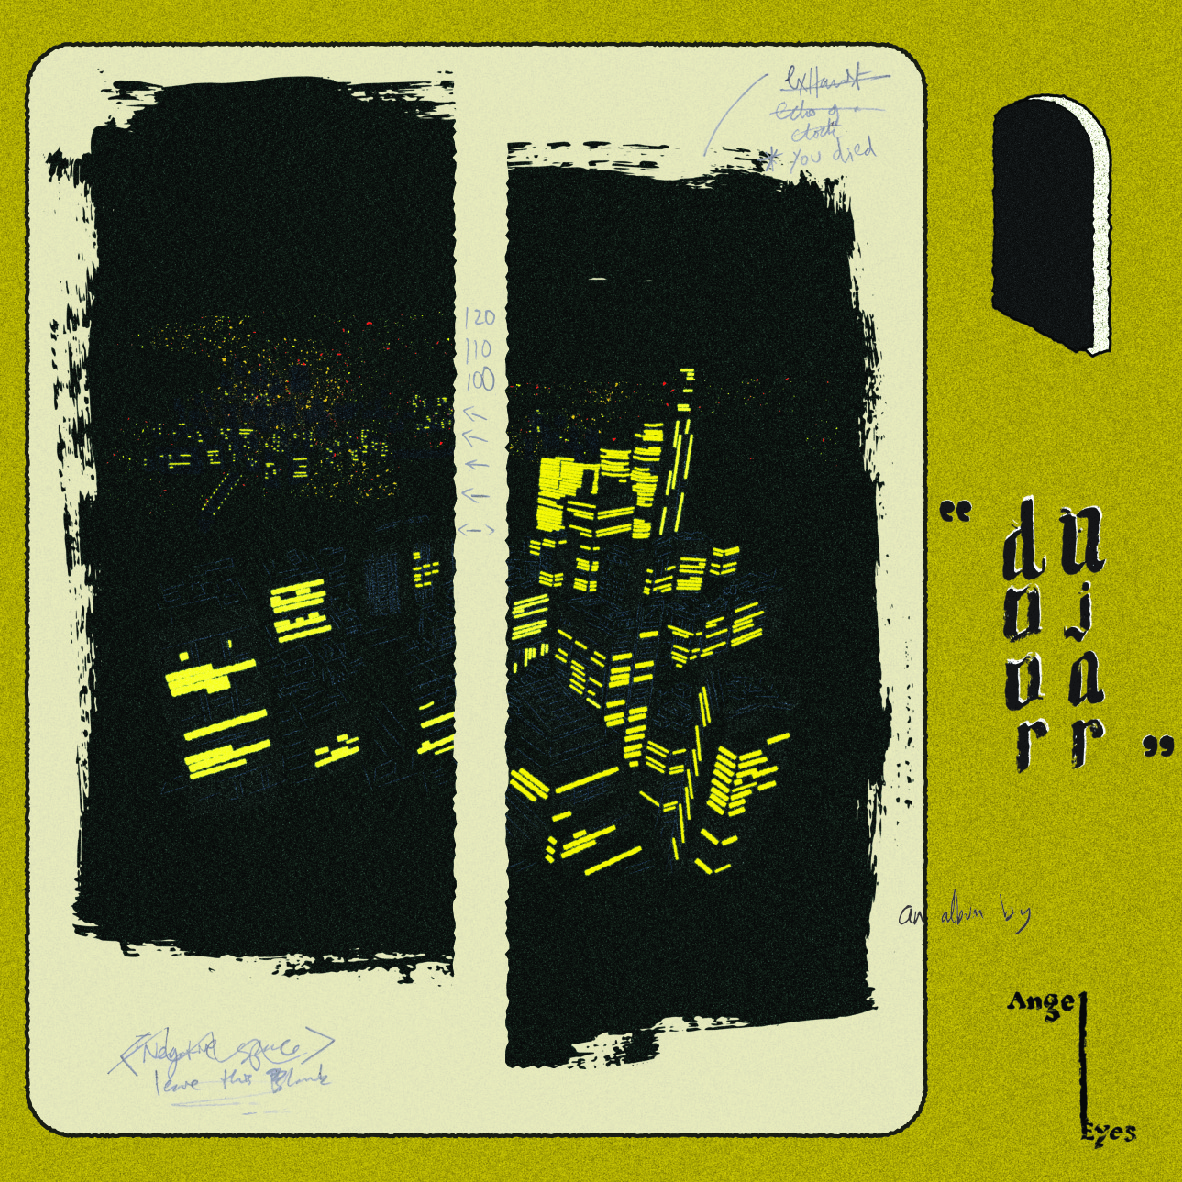
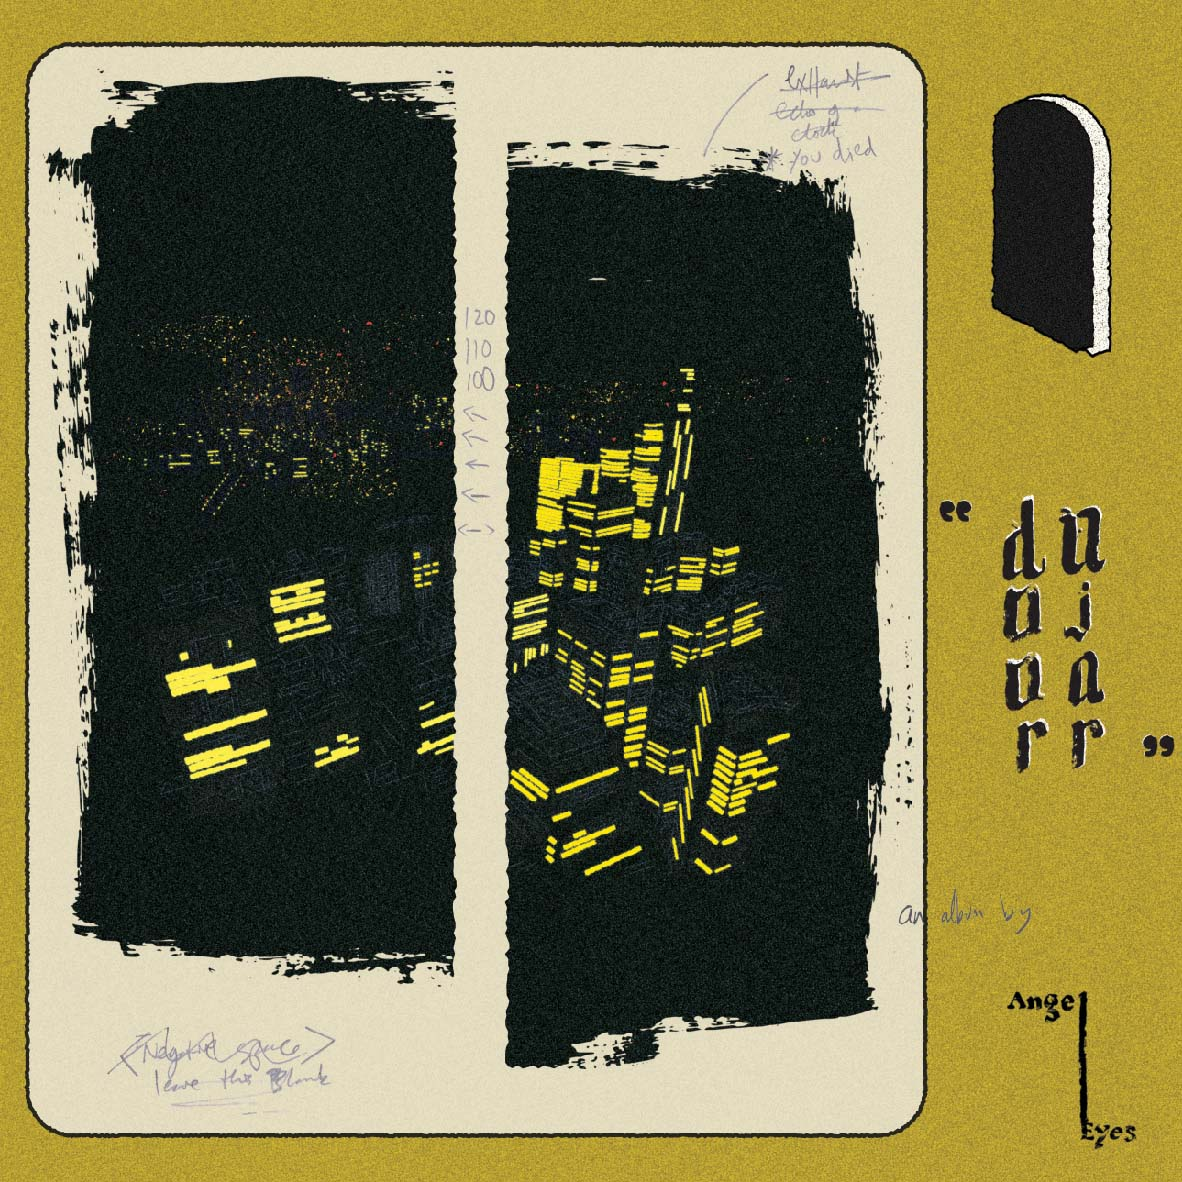
lazy loading and webp

diff --git a/pages/Gallery_Page/Gallery2.html b/pages/Gallery_Page/Gallery2.html
@@ -18,12 +18,12 @@
    </div>
   <div class="topWrap">
    <div class="topbox" id="topBox">
-    <img class="gallimgvert" src="galleryimg/gallerypagebannerVERT.png" id= "gallbann" alt="Paul Cumming gallery banner vertical">
-    <img class="gallimg" src="galleryimg/gallerypagebanner.png" id= "gallbann" alt="gallery banner">
-    <img src="galleryimg/mickeycircle.png" class="circle" id="Mickcircle" data-speed="2" alt="Mickey circle">
-    <img src="galleryimg/comments.png" class="comments" id="comments" data-speed="2" alt="comment box">
-    <img src="galleryimg/negspace.png" class="negSpace" id="negSpace" data-speed="2" alt="negspace">
-    <img src="galleryimg/toomuch.png" class="tooMuch" id="tooMuch" data-speed="2" alt="tooMuch">
+    <img class="gallimgvert" src="galleryimg/gallerypagebannerVERT.webp" id= "gallbann" alt="Paul Cumming gallery banner vertical">
+    <img class="gallimg" src="galleryimg/gallerypagebanner.webp" id= "gallbann" alt="gallery banner">
+    <img src="galleryimg/mickeycircle.webp" class="circle" id="Mickcircle" data-speed="2" alt="Mickey circle">
+    <img src="galleryimg/comments.webp" class="comments" id="comments" data-speed="2" alt="comment box">
+    <img src="galleryimg/negspace.webp" class="negSpace" id="negSpace" data-speed="2" alt="negspace">
+    <img src="galleryimg/toomuch.webp" class="tooMuch" id="tooMuch" data-speed="2" alt="tooMuch">
    </div>
   </div>
   <div id="skullOne" class="skullOne">
@@ -38,61 +38,61 @@
   <div class="wrapper">
   <div class="container" id="container">
     <div class="gallImg" alt="Paul Cumming gallery picture1">
-     <img src="galleryimg/gallerycontent/gallery1.jpg">
+     <img src="galleryimg/gallerycontent/gallery1.webp">
     </div>
     <div class="gallImg" alt="Paul Cumming gallery picture2">
-      <img src="galleryimg/gallerycontent/gallery2.jpg">
+      <img src="galleryimg/gallerycontent/gallery2.webp">
      </div>
      <div class="gallImg" alt="Paul Cumming gallery picture3">
-      <img src="galleryimg/gallerycontent/Gallery3.jpeg">
+      <img loading="lazy" src="galleryimg/gallerycontent/Gallery3.webp">
      </div>
      <div class="gallImg" alt="Paul Cumming gallery picture4">
-      <img src="galleryimg/gallerycontent/Gallery6.jpg">
+      <img loading="lazy" src="galleryimg/gallerycontent/Gallery6.webp">
      </div>
      <div class="gallImg" alt="Paul Cumming gallery picture5">
-      <img src="galleryimg/gallerycontent/gallery10.jpg">
+      <img loading="lazy" src="galleryimg/gallerycontent/gallery10.webp">
      </div>
      <div class="gallImg" alt="Paul Cumming gallery picture6">
-      <img src="galleryimg/gallerycontent/gallery13.jpeg">
+      <img loading="lazy" src="galleryimg/gallerycontent/gallery13.webp">
      </div>
      <div class="gallImg" alt="Paul Cumming gallery picture7">
-      <img src="galleryimg/gallerycontent/gallery19.png">
+      <img loading="lazy" src="galleryimg/gallerycontent/gallery19.webp">
      </div>
      <div class="gallImg" alt="Paul Cumming gallery picture8">
-      <img src="galleryimg/gallerycontent/gallery14.jpg">
+      <img loading="lazy" src="galleryimg/gallerycontent/gallery14.webp">
      </div>
      <div class="gallImg" alt="Paul Cumming gallery picture9">
-      <img src="galleryimg/gallerycontent/gallery16.jpg">
+      <img loading="lazy" src="galleryimg/gallerycontent/gallery16.webp">
      </div>
      <div class="gallImg" alt="Paul Cumming gallery picture10">
-      <img src="galleryimg/gallerycontent/gallery17.jpg">
+      <img loading="lazy" src="galleryimg/gallerycontent/gallery17.webp">
      </div>
      <div class="gallImg" alt="Paul Cumming gallery picture11">
-      <img src="galleryimg/gallerycontent/Gallery8.jpg">
+      <img loading="lazy" src="galleryimg/gallerycontent/Gallery8.webp">
      </div>
      <div class="gallImg" alt="Paul Cumming gallery picture12">
-      <img src="galleryimg/gallerycontent/gallery12.jpg">
+      <img loading="lazy" src="galleryimg/gallerycontent/gallery12.webp">
      </div>
      <div class="gallImg" alt="Paul Cumming gallery picture13">
-      <img src="galleryimg/gallerycontent/gallery18.jpg">
+      <img loading="lazy" src="galleryimg/gallerycontent/gallery18.jpg">
      </div>
      <div class="gallImg" alt="Paul Cumming gallery picture14">
-      <img src="galleryimg/gallerycontent/Gallery7.jpg">
+      <img loading="lazy" src="galleryimg/gallerycontent/Gallery7.webp">
      </div>
      <div class="gallImg" id="gallImgsq" alt="Paul Cumming gallery picture15">
-      <img src="galleryimg/gallerycontent/gallery11.jpg">
+      <img loading="lazy" src="galleryimg/gallerycontent/gallery11.jpg">
      </div>
      <div class="gallImg" id="gallImgsqBig" alt="Paul Cumming gallery picture16">
-      <img src="galleryimg/gallerycontent/Gallery4.jpg">
+      <img loading="lazy" src="galleryimg/gallerycontent/Gallery4.webp">
      </div>
      <div class="gallImg" id="gallImgsq" alt="Paul Cumming gallery picture17">
-      <img src="galleryimg/gallerycontent/gallery9.jpeg">
+      <img loading="lazy" src="galleryimg/gallerycontent/gallery15.webp">
      </div>
      <div class="gallImg" id="gallImgsqBig" alt="Paul Cumming gallery picture18">
-      <img src="galleryimg/gallerycontent/Gallery5.jpg">
+      <img loading="lazy" src="galleryimg/gallerycontent/Gallery5.webp">
      </div>
      <div class="gallImg" id="gallImgsqMax" alt="Paul Cumming gallery picture19">
-      <img src="galleryimg/gallerycontent/gallery15.png">
+      <img loading="lazy" src="galleryimg/gallerycontent/gallery9.webp">
      </div>
   </div>
   <div class="end">

diff --git a/index.html b/index.html
@@ -16,30 +16,30 @@
        <div class="whiteOut" id="whiteOut">
        </div>
       </div>
-         <audio id="song" preload="auto" src="audioab/04 Endless Blues_192kbps_44k.mp3">
+         <audio id="song" loading="lazy" src="audioab/04 Endless Blues_192kbps_44k.mp3">
       Your browser does not support the audio format.
       </audio>
       <audio id="sound" preload="auto" src="audioab/Technology Phone Dial Number.mp3">
         Your browser does not support the audio format.
         </audio>
     <div id="interface" class="interface">
-       <img src="imagesab/gb1.png" id="gameboy"  alt="gameboy husk" class="gbShell">
+       <img src="imagesab/gb1.webp" id="gameboy"  alt="gameboy husk" class="gbShell">
      <div id="switchhover1">
-      <a href="javascript:setTimeout(()=>{window.location = 'https://paulcumming.design/pages/Gallery_Page/Gallery2.html' },1100);"><img alt="blue button" class="blueButton" src="imagesab/blueButton.png" ontouchstart="bluetouch()" onmouseover="gallery()"  onclick="gallery() + playsound()"  onmouseout="ungallery()" id="blueButton"></a>
+      <a href="javascript:setTimeout(()=>{window.location = 'https://paulcumming.design/pages/Gallery_Page/Gallery2.html' },1100);"><img alt="blue button" class="blueButton" src="imagesab/blueButton.webp" ontouchstart="bluetouch()" onmouseover="gallery()"  onclick="gallery() + playsound()"  onmouseout="ungallery()" id="blueButton"></a>
       </div>
       <div id="switchhover2">
-      <a href="javascript:setTimeout(()=>{window.location = 'https://paulcumming.design/pages/peregrine/peregrine.html'},1100);"><img alt="throw switch" class="buttons" src="imagesab/throwswitch.png" onclick="skyrats() + playsound()" onmouseover="skyrats()"  ontouchstart="throwtouch()" onmouseout="unskyrats()" id="throwSwitch"></a>
+      <a href="javascript:setTimeout(()=>{window.location = 'https://paulcumming.design/pages/peregrine/peregrine.html'},1100);"><img alt="throw switch" class="buttons" src="imagesab/throwswitch.webp" onclick="skyrats() + playsound()" onmouseover="skyrats()"  ontouchstart="throwtouch()" onmouseout="unskyrats()" id="throwSwitch"></a>
       </div> 
       <div id="switchhover3">
-      <img alt="music jack" class="buttons" src="imagesab/musicjack.png" onclick="playAudio()" onclick="stopAudio()" onmouseout="stopAudio()" id="musicJack">
+      <img alt="music jack" class="buttons" src="imagesab/musicjack.webp" onclick="playAudio()" onclick="stopAudio()" onmouseout="stopAudio()" id="musicJack">
       </div>
       <div id="switchhover4">
-      <a href="javascript:setTimeout(()=>{window.location = 'https://paulcumming.design/pages/Contact_Page/Contact.html'},1100);"><img alt="on button" class="buttons" src="imagesab/onbutton.png" onclick="playsound() + contact()"  onmouseover="contact()" ontouchstart="ontouch()" onmouseout="uncontact()" id="onButton"></a>
+      <a href="javascript:setTimeout(()=>{window.location = 'https://paulcumming.design/pages/Contact_Page/Contact.html'},1100);"><img alt="on button" class="buttons" src="imagesab/onbutton.webp" onclick="playsound() + contact()"  onmouseover="contact()" ontouchstart="ontouch()" onmouseout="uncontact()" id="onButton"></a>
       </div>
       <div id="switchhover5">
       <img alt="red button" class="buttons" src="imagesab/redButton.png" onclick="playsound() + shop()"  onmouseover="shop()" ontouchstart="redtouch()" onmouseout="unshop()" id="redButton">
       <div id="switchhover6">
-        <a href="javascript:setTimeout(()=>{window.location = 'https://paulcumming.design/pages/aboutgrid/aboutgrid.html'},1100);"><img alt="about button" class="buttons" src="imagesab/aboutbutton.png" onclick="playsound() + about()"  onmouseover="about()" ontouchstart="abouttouch()" onmouseout="unabout()" id="aboutButton"></a>
+        <a href="javascript:setTimeout(()=>{window.location = 'https://paulcumming.design/pages/aboutgrid/aboutgrid.html'},1100);"><img alt="about button" class="buttons" src="imagesab/aboutbutton.webp" onclick="playsound() + about()"  onmouseover="about()" ontouchstart="abouttouch()" onmouseout="unabout()" id="aboutButton"></a>
         </div>
     </div>
     </div>
@@ -52,8 +52,8 @@
       <img src="imagesab/aboutgif.gif" type="gif" id="aboutLoop" class="aboutLoop" alt="Paul Cumming About">
      </div>
       <div id="dirt">
-          <img src="imagesab/dirt1.png" id="dirt1" class="dirt1">
-          <img src="imagesab/dirt2.png" id="dirt2" class="dirt2"> 
+          <img src="imagesab/dirt1.webp" id="dirt1" class="dirt1">
+          <img src="imagesab/dirt2.webp" id="dirt2" class="dirt2"> 
           </div>
     </body>
 

diff --git a/pages/Contact_Page/Contact.html b/pages/Contact_Page/Contact.html
@@ -17,21 +17,21 @@
     </div>
    </div>
    <div class="topbox" id="topBox">
-    <img class="contactimgvert" src="contactimg/ContactpagebannerVERT.png" id= "gallbann" alt="contact banner vertical">
-    <img class="contactimg" src="contactimg/Contactpagebanner.png" id= "gallbann" alt="contact banner">
-    <img src="contactimg/dropline.png" class="circle" id="Mickcircle" data-speed="2" alt="Mickey circle">
-    <img src="contactimg/pickup.png" class="comments" id="comments" data-speed="2" alt="comment box">
-    <img src="contactimg/spamfree.png" class="negSpace" id="negSpace" data-speed="2" alt="negspace">
+    <img class="contactimgvert" src="contactimg/ContactpagebannerVERT.webp" id= "gallbann" alt="contact banner vertical">
+    <img class="contactimg" src="contactimg/Contactpagebanner.webp" id= "gallbann" alt="contact banner">
+    <img src="contactimg/dropline.webp" class="circle" id="Mickcircle" data-speed="2" alt="Mickey circle">
+    <img src="contactimg/pickup.webp" class="comments" id="comments" data-speed="2" alt="comment box">
+    <img src="contactimg/spamfree.webp" class="negSpace" id="negSpace" data-speed="2" alt="negspace">
    </div>
   <div id="skullOne" class="skullOne">
-    <img src="contactimg/handone.png" alt="stationary skull" class="skullWon">
+    <img src="contactimg/handone.webp" alt="stationary skull" class="skullWon">
   </div>
   <div id="giffy" class="giffy">
     <img src="contactimg/contacthand.gif"  class= spinSkull id="spinSkull" alt="spinning skull">
   </div>
   <!--div class="signupWrap"-->
     <div class="signup" id= signup alt="signup form">
-        <img src="contactimg/smallbookform.png" class="signupForm" alt="Signup Form">
+        <img loading="lazy" src="contactimg/smallbookform.webp" class="signupForm" alt="Signup Form">
         <form action="https://formsubmit.co/paul.christopher.cumming@gmail.com" method="post" enctype="text/plain" class="form">
           <input type="text" name="name"  class="nameInput" autocomplete="on">
           <input type="email" name="email"  class="emailInput" required autocomplete="on">

diff --git a/pages/aboutgrid/aboutgrid.html b/pages/aboutgrid/aboutgrid.html
@@ -18,8 +18,8 @@
            </div>
 
         <div class="bannercontainer">
-            <img src="ABOUTBANNERvert.png" class="bannervert" alt="Paul Cumming about banner1" id="bannervert">
-            <img src="ABOUTBANNERhor.png" class="bannerhor" alt="Paul Cumming about banner2" id="bannerhor">
+            <img src="ABOUTBANNERvert.webp" class="bannervert" alt="Paul Cumming about banner1" id="bannervert">
+            <img src="ABOUTBANNERhor.webp" class="bannerhor" alt="Paul Cumming about banner2" id="bannerhor">
             <img src="noisefaceORANGE.gif" class="noiseface" alt="Paul Cumming face gif" id="noiseface">
             <p class="words" alt="Paul Cumming biography">
                 Paul Cumming — me. I design, write and code. I do this in a house that perspires dust with animal intensity, and ordinarily on a laptop that after a few hours of use, starts to whine like a spoiled terrier. Then I continue to to design, write and code. The quickest way to fix my laptop fan is with my record player—the creak of old folk or weeping mid-(last) century jazz can do it, but if the canine howl of my computer fan reaches fever pitch, there's always blackened hardcore, grindcore, death metal. I highly recommend it, but have been informed it's inaccurate to call it a 'life hack'.

diff --git a/pages/Gallery_Page/gallerystyle/Gallery2.css b/pages/Gallery_Page/gallerystyle/Gallery2.css
@@ -6,7 +6,7 @@
   body {
     max-width: 100%;
     background-color: white;
-    background-image: url(../galleryimg/crinkled.jpg);
+    background-image: url(../galleryimg/crinkled.webp);
     background-size: contain;
     background-repeat: repeat-y; 
     background-blend-mode: luminosity;
@@ -460,7 +460,7 @@ margin-left: 5%;
 /* LAPTOP */
 @media screen and (min-width: 821px){
   body {
-    background-image: url(../galleryimg/crinkled2.jpg)
+    background-image: url(../galleryimg/crinkled2.webp)
 }
   .gallimg {
     display: block;
@@ -565,7 +565,7 @@ margin-top: -89%;
 /*LANDSCAPE*/
 @media (orientation: landscape)  {
   body {
-    background-image: url(../galleryimg/crinkled2.jpg)
+    background-image: url(../galleryimg/crinkled2.webp)
   }
   .gamehusk{
     position: fixed;

diff --git a/pages/aboutgrid/aboutgrid.css b/pages/aboutgrid/aboutgrid.css
@@ -1,7 +1,7 @@
 body {
     max-width: 100%;
     background-color: white;
-    background-image: url(../Gallery_Page/galleryimg/crinkled.jpg);
+    background-image: url(../Gallery_Page/galleryimg/crinkled.webp);
     background-repeat: repeat; 
     background-size: cover;
     background-blend-mode: luminosity;
@@ -108,7 +108,7 @@ body {
 
   @media screen and (orientation: landscape){
     body{
-        background-image: url(../Gallery_Page/galleryimg/crinkled2.jpg);
+        background-image: url(../Gallery_Page/galleryimg/crinkled2.webp);
     }
     .gamehusk{
       position: fixed;

diff --git a/pages/peregrine/peregrine.css b/pages/peregrine/peregrine.css
@@ -1,7 +1,7 @@
 body {
     max-width: 100%;
     background-color: white;
-    background-image: url(../Gallery_Page/galleryimg/crinkled.jpg);
+    background-image: url(../Gallery_Page/galleryimg/crinkled.webp);
     background-repeat: repeat; 
     background-size: contain;
     background-blend-mode: luminosity;
@@ -74,7 +74,7 @@ body {
 
   @media screen and (orientation: landscape){
     body{
-      background-image: url(../Gallery_Page/galleryimg/crinkled2.jpg);
+      background-image: url(../Gallery_Page/galleryimg/crinkled2.webp);
     }
 
     .container{

diff --git a/pages/Contact_Page/contactstyle/contact.css b/pages/Contact_Page/contactstyle/contact.css
@@ -6,7 +6,7 @@
   body {
     max-width: 100%;
     background-color: white;
-    background-image: url(../contactimg/crinkled.jpg);
+    background-image: url(../contactimg/crinkled.webp);
     background-size: cover;
     background-repeat: repeat; 
     background-blend-mode: luminosity;
@@ -595,7 +595,7 @@ button {
 /* LAPTOP */
 @media screen and (width >= 821px){
   body {
-    background-image: url(../contactimg/crinkled2.jpg)
+    background-image: url(../contactimg/crinkled2.webp)
 }
   .contactimg {
     display: block;

diff --git a/pages/peregrine/peregrine.html b/pages/peregrine/peregrine.html
@@ -19,7 +19,7 @@
            </div>
         <div class="container" id="container">
                 <img src="Tranks3.gif" class="mainpic" id="mainpic" alt="Paul Cumming - Tree illustration">
-                <img src="words.png" class="wordpic" id="wordpic" alt="Paul Cumming - Peregrine description">
+                <img src="words.webp" class="wordpic" id="wordpic" alt="Paul Cumming - Peregrine description">
         </div>
         <script src="peregrine.js"></script>
     </body>
